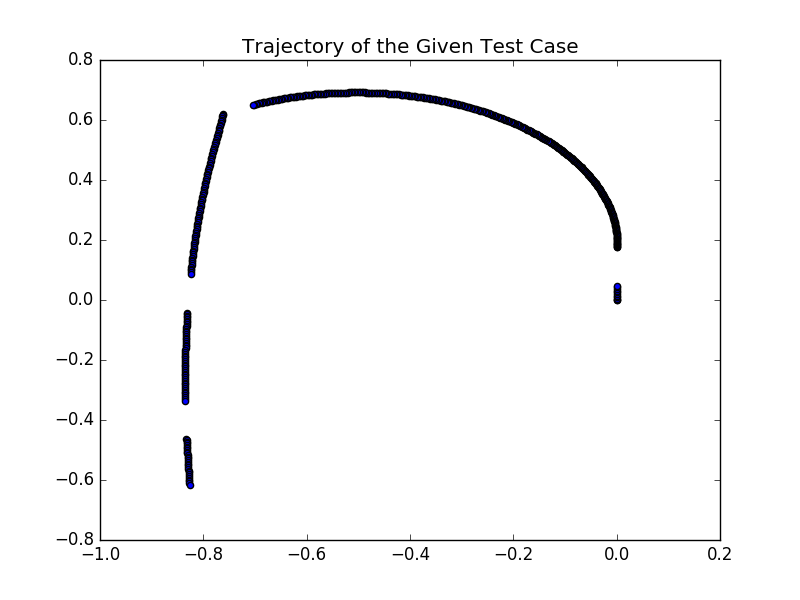
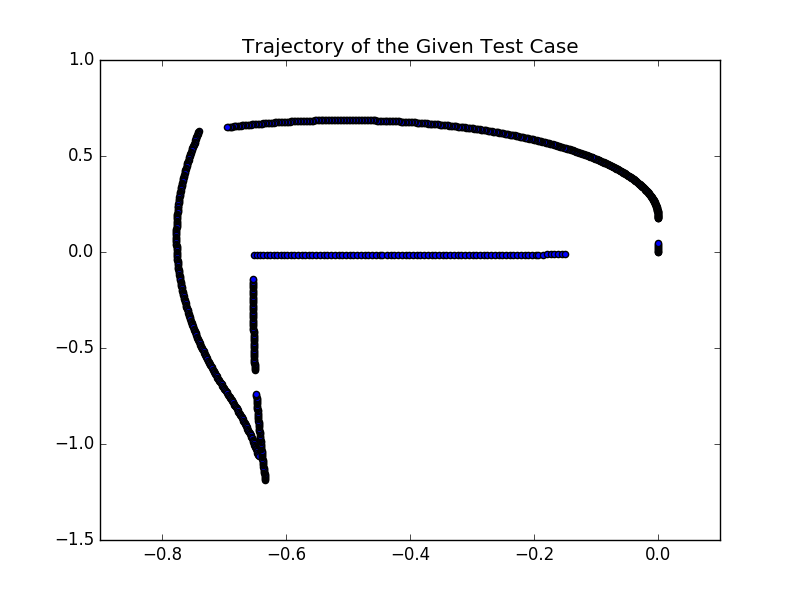
finished all

diff --git a/proj/02/sim/kick_forward.py b/proj/02/sim/kick_forward.py
@@ -21,7 +21,7 @@ import matplotlib.pyplot as plt
 #These coordinates are in the "world" coordinate frame
 ''' waypoint of a half circle '''
 # waypoints = np.array([[0,0], [0.012,0.156], [0.049,0.309], [0.109,0.454], [0.191,0.588], [0.293,0.707], [0.412,0.809], [0.546,0.891], [0.691,0.951], [0.844, 0.988], [1,1]])
-waypoints = np.array([[0,0], [0,-0.5], [0,-1], [0,-0.5], [0,0]])
+waypoints = np.array([[0,0], [0,-1.5], [0,-1], [0,-0.5], [0,0]])    # FIXME
 curr_point = np.array([0])
 next_point = np.array([0])
 ptr = 0
@@ -31,7 +31,7 @@ next_point = waypoints[ptr]
 face_orientation = 0.0
 
 EPSILON = 0.2   # FIXME
-dist_thresh = 0.15   # FIXME
+dist_thresh = 0.2   # FIXME
 RAD = 2 * pi / 360
 kp = 1              # FIXME: set an estimated proper kp value
 v_ang = 10          # FIXME
@@ -196,8 +196,8 @@ if __name__ == '__main__':
             ins.main()
             ptr = ptr + 1
             print ('==============================================')
-        # plt.scatter(x, y)
-        # plt.title('Trajectory of the Given Test Case')
-        # plt.show()
+        plt.scatter(x, y)
+        plt.title('Trajectory of the Given Test Case')
+        plt.show()
     except rospy.ROSInterruptException or KeyboardInterrupt:
         rospy.loginfo("Action terminated.")

diff --git a/proj/03/sim/smooth_waypoints.py b/proj/03/sim/smooth_waypoints.py
@@ -21,7 +21,7 @@ import matplotlib.pyplot as plt
 #these waypoints are given as list for convience, however, you can use any data type that you like
 #These coordinates are in the "world" coordinate frame
 # waypoints = np.array([[0,0], [0.012,0.156], [0.049,0.309], [0.109,0.454], [0.191,0.588], [0.293,0.707], [0.412,0.809], [0.546,0.891], [0.691,0.951], [0.844, 0.988], [1,1]])
-waypoints = np.array([[0,0], [0,0.2], [-0.7,0.5], [-0.7,0], [-0.7,-0.4], [-0.7,-0.7], [-0.3,-0.7], [0,-0.7], [0,-0.3], [0,0]])
+waypoints = np.array([[0,0], [0,0.2], [-0.7,0.5], [-0.7,-1.2], [-0.7,-0.6], [-0.7,0], [0,0]]) # FIXME: waypoints can be modified
 # FIXME: waypoints can be modified
 curr_point = np.array([0])
 next_point = np.array([0])

diff --git a/proj/01/sim/smooth_waypoints.py b/proj/01/sim/smooth_waypoints.py
@@ -21,7 +21,7 @@ import matplotlib.pyplot as plt
 #these waypoints are given as list for convience, however, you can use any data type that you like
 #These coordinates are in the "world" coordinate frame
 # waypoints = np.array([[0,0], [0.012,0.156], [0.049,0.309], [0.109,0.454], [0.191,0.588], [0.293,0.707], [0.412,0.809], [0.546,0.891], [0.691,0.951], [0.844, 0.988], [1,1]])
-waypoints = np.array([[0,0], [0,0.3], [1,1.3], [1,0.8], [1,0.4], [1,0], [0.5,0], [0,0]])
+waypoints = np.array([[0,0], [0,0.3], [1,1.3], [1,0.8], [1,0.4], [1,-0.5], [1,0], [0,0]])
 curr_point = np.array([0])
 next_point = np.array([0])
 ptr = 0
